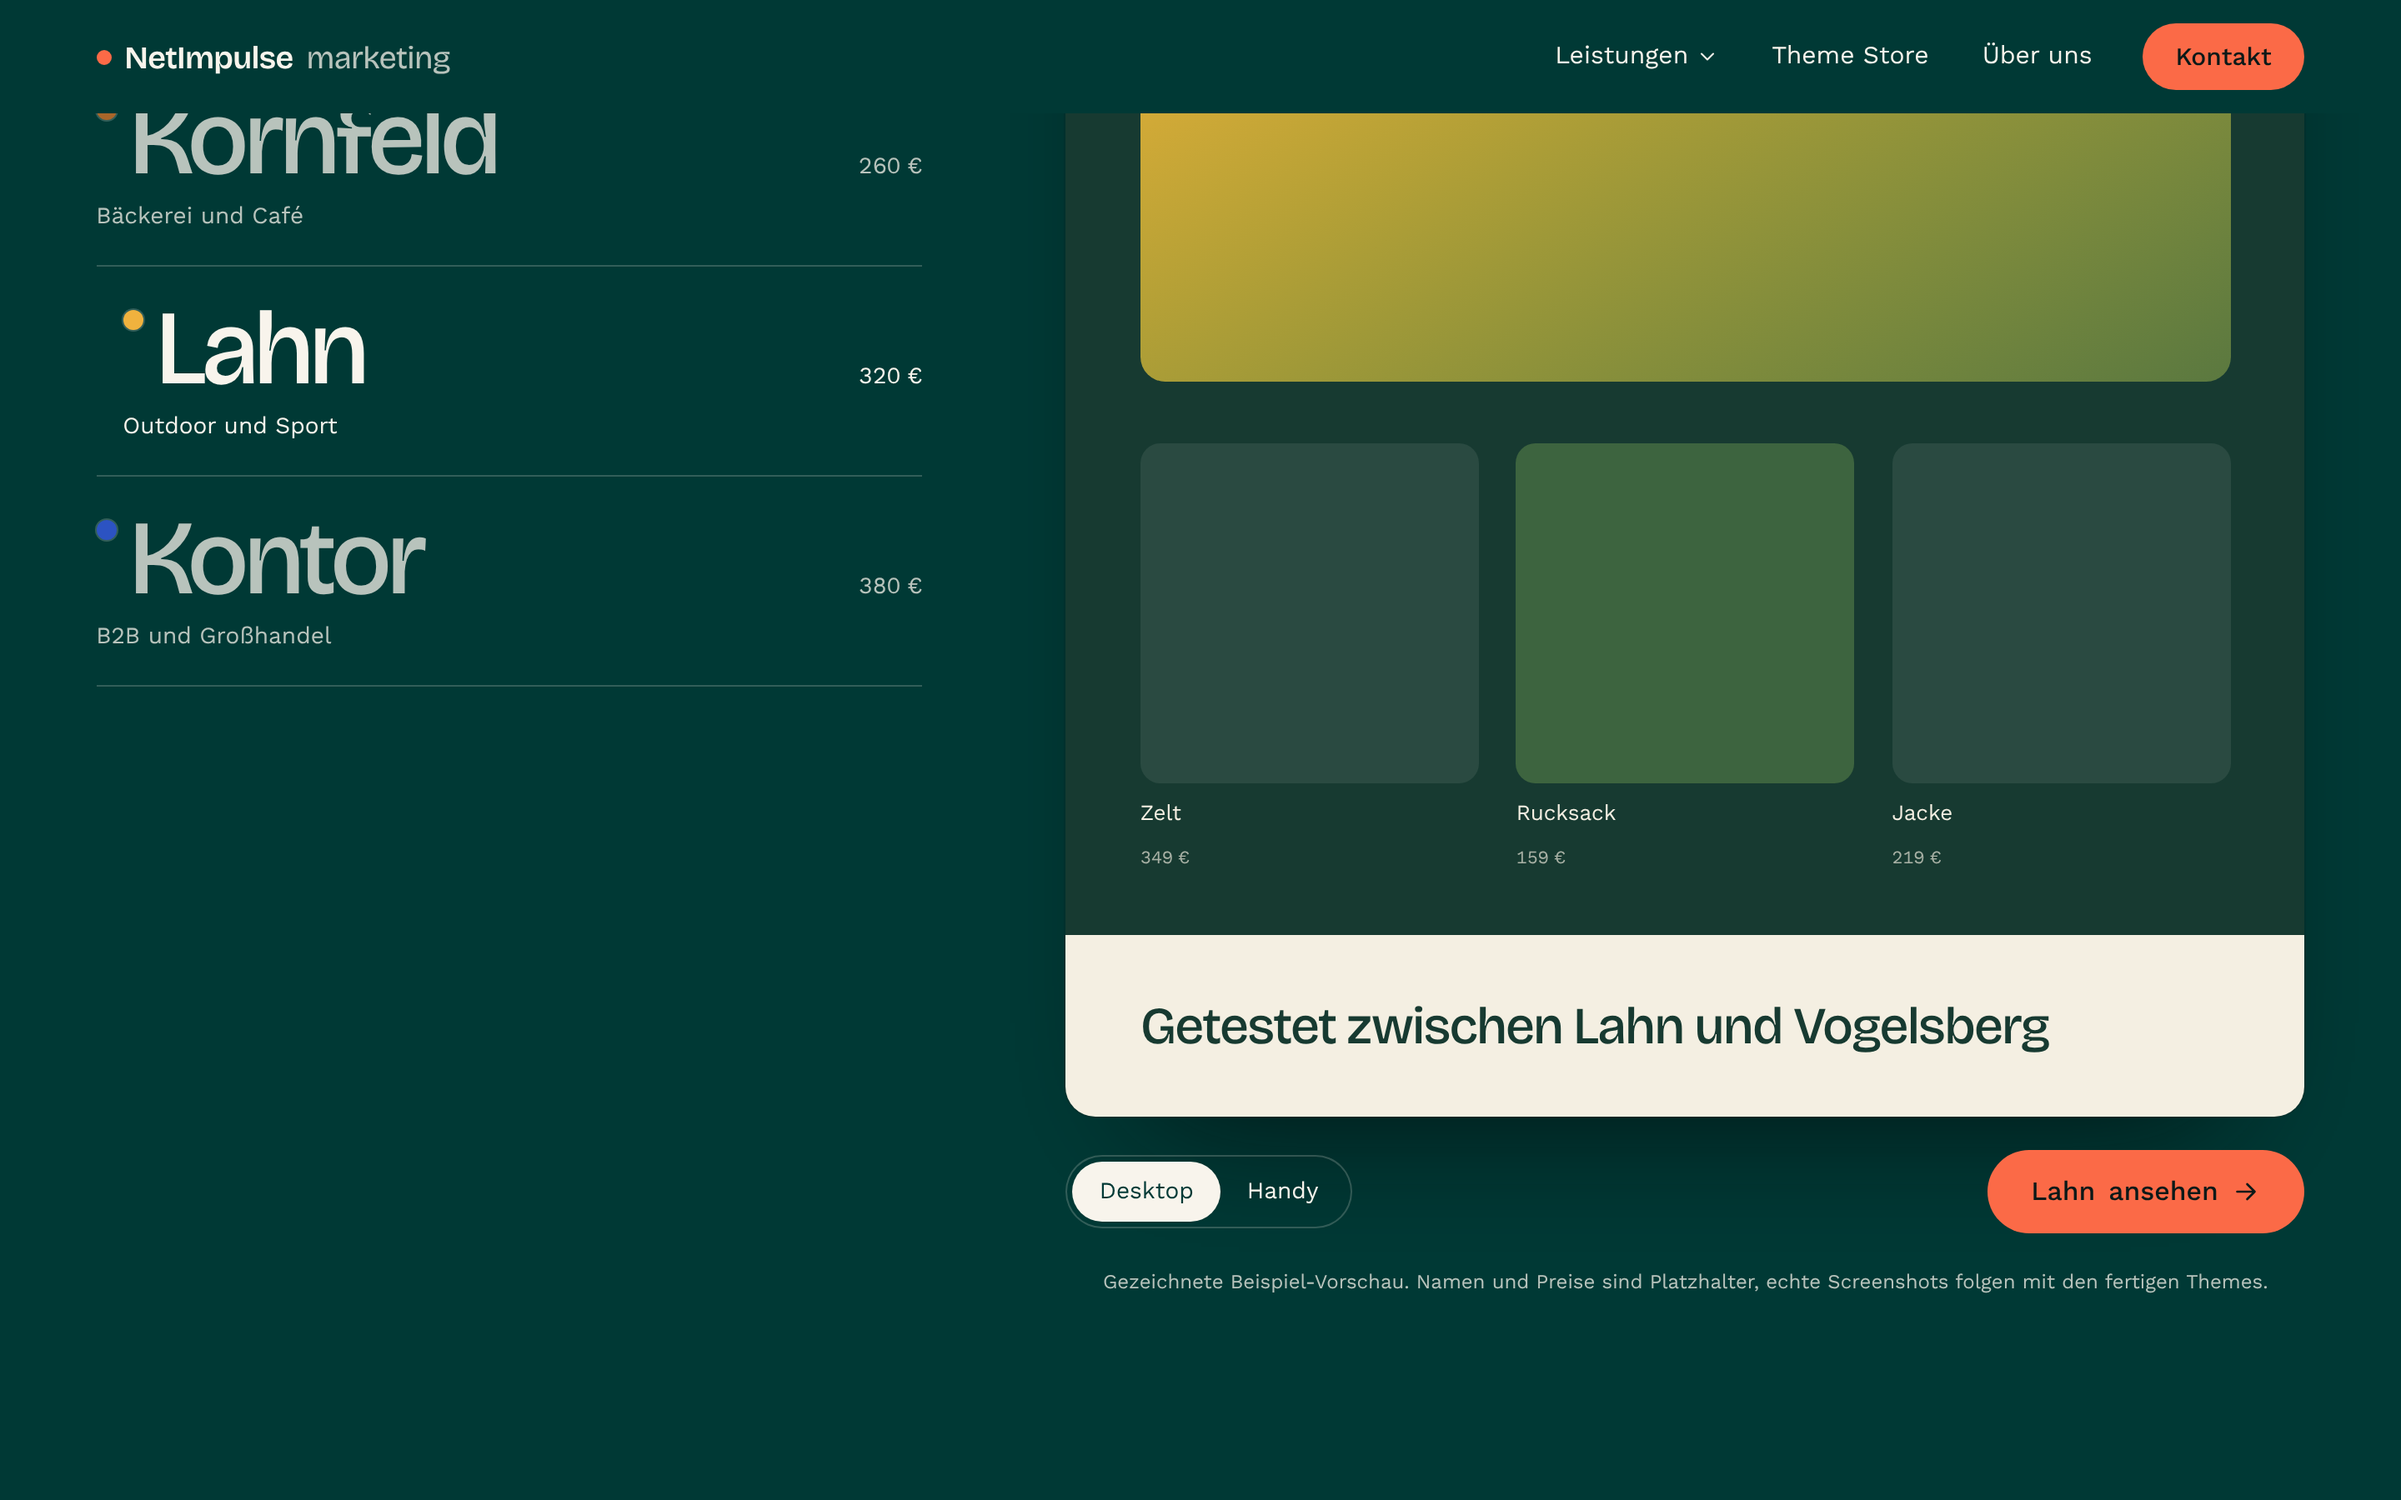
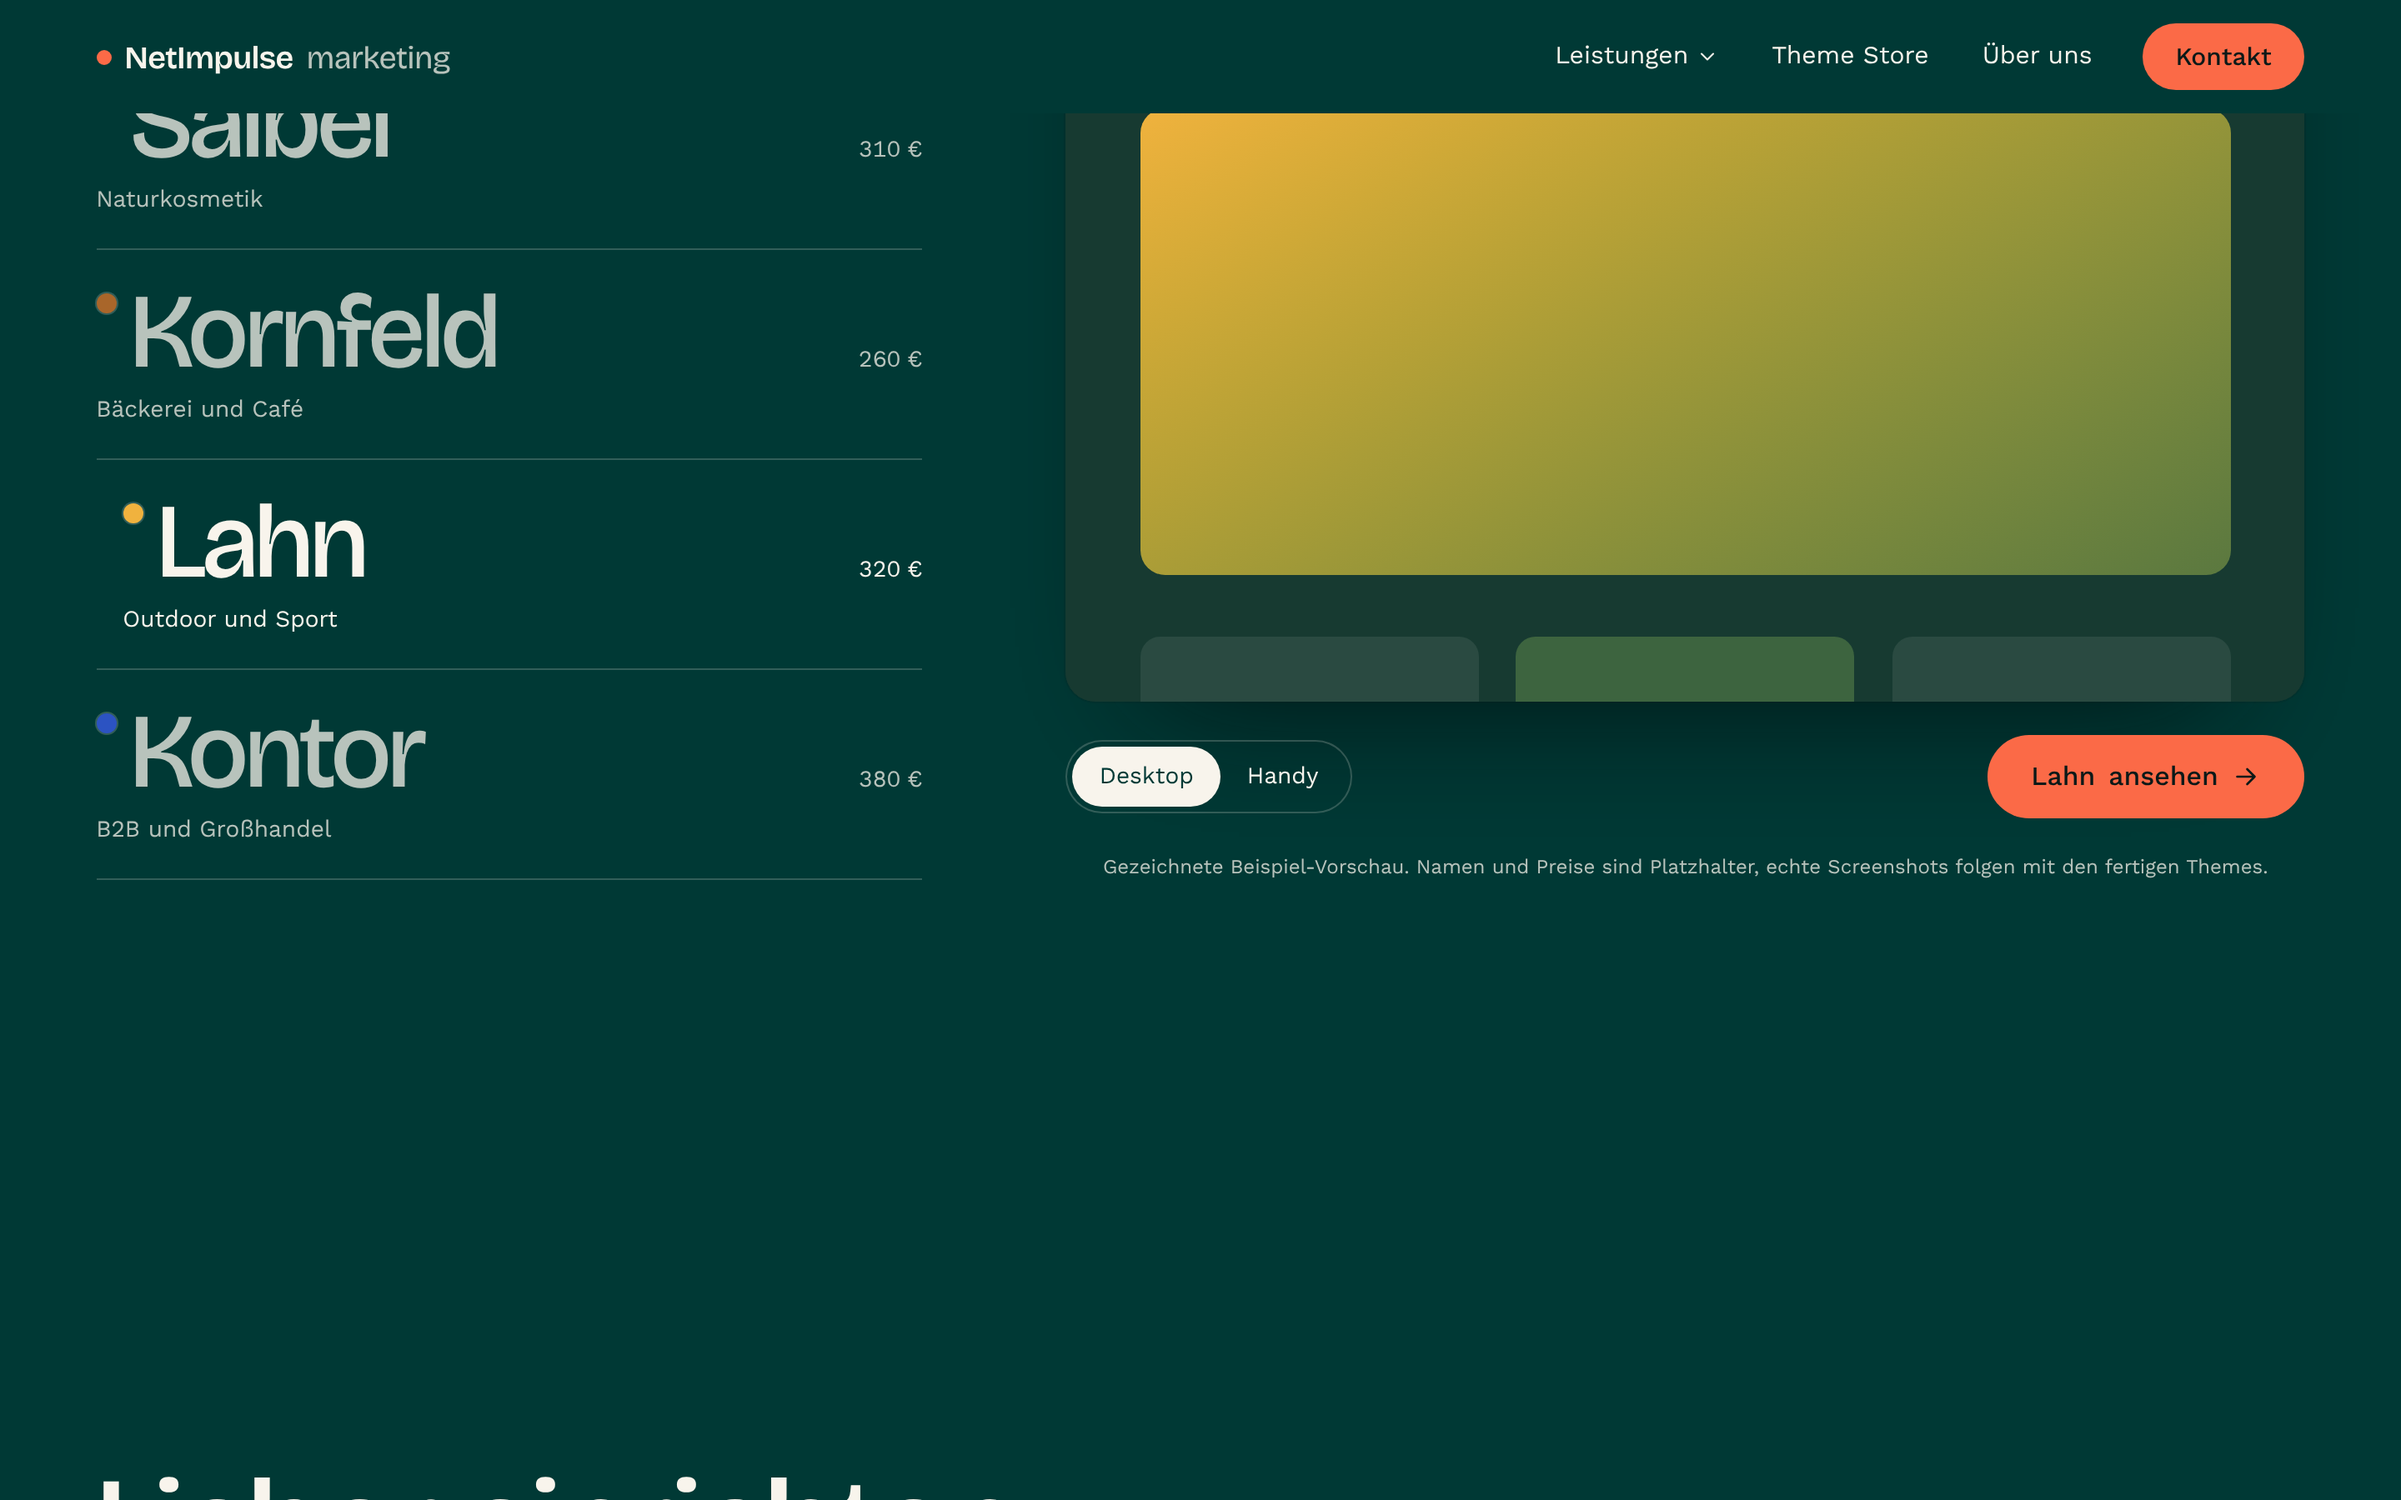
Prototyp: Theme-Vorschau bleibt neben der Liste sichtbar
Claude-Session: https://claude.ai/code/session_019h5rPf8qB6agUxy2E7JHDu

diff --git a/prototype/assets/site.css b/prototype/assets/site.css
@@ -440,3 +440,7 @@ button { font: inherit; color: inherit; }
 .toast.is-on { transform: translate(-50%, 0); opacity: 1; }
 
 @media (prefers-reduced-motion: reduce) { *, *::before, *::after { transition-duration: 0.01ms !important; animation-duration: 0.01ms !important; scroll-behavior: auto !important; } }
+
+/* Vorschau bleibt neben der Liste sichtbar */
+.ex-stage .device:not(.is-phone) { max-height: calc(100dvh - 250px); }
+.ex-stage .device.is-phone { max-height: calc(100dvh - 250px); overflow-y: auto; scrollbar-width: none; }
